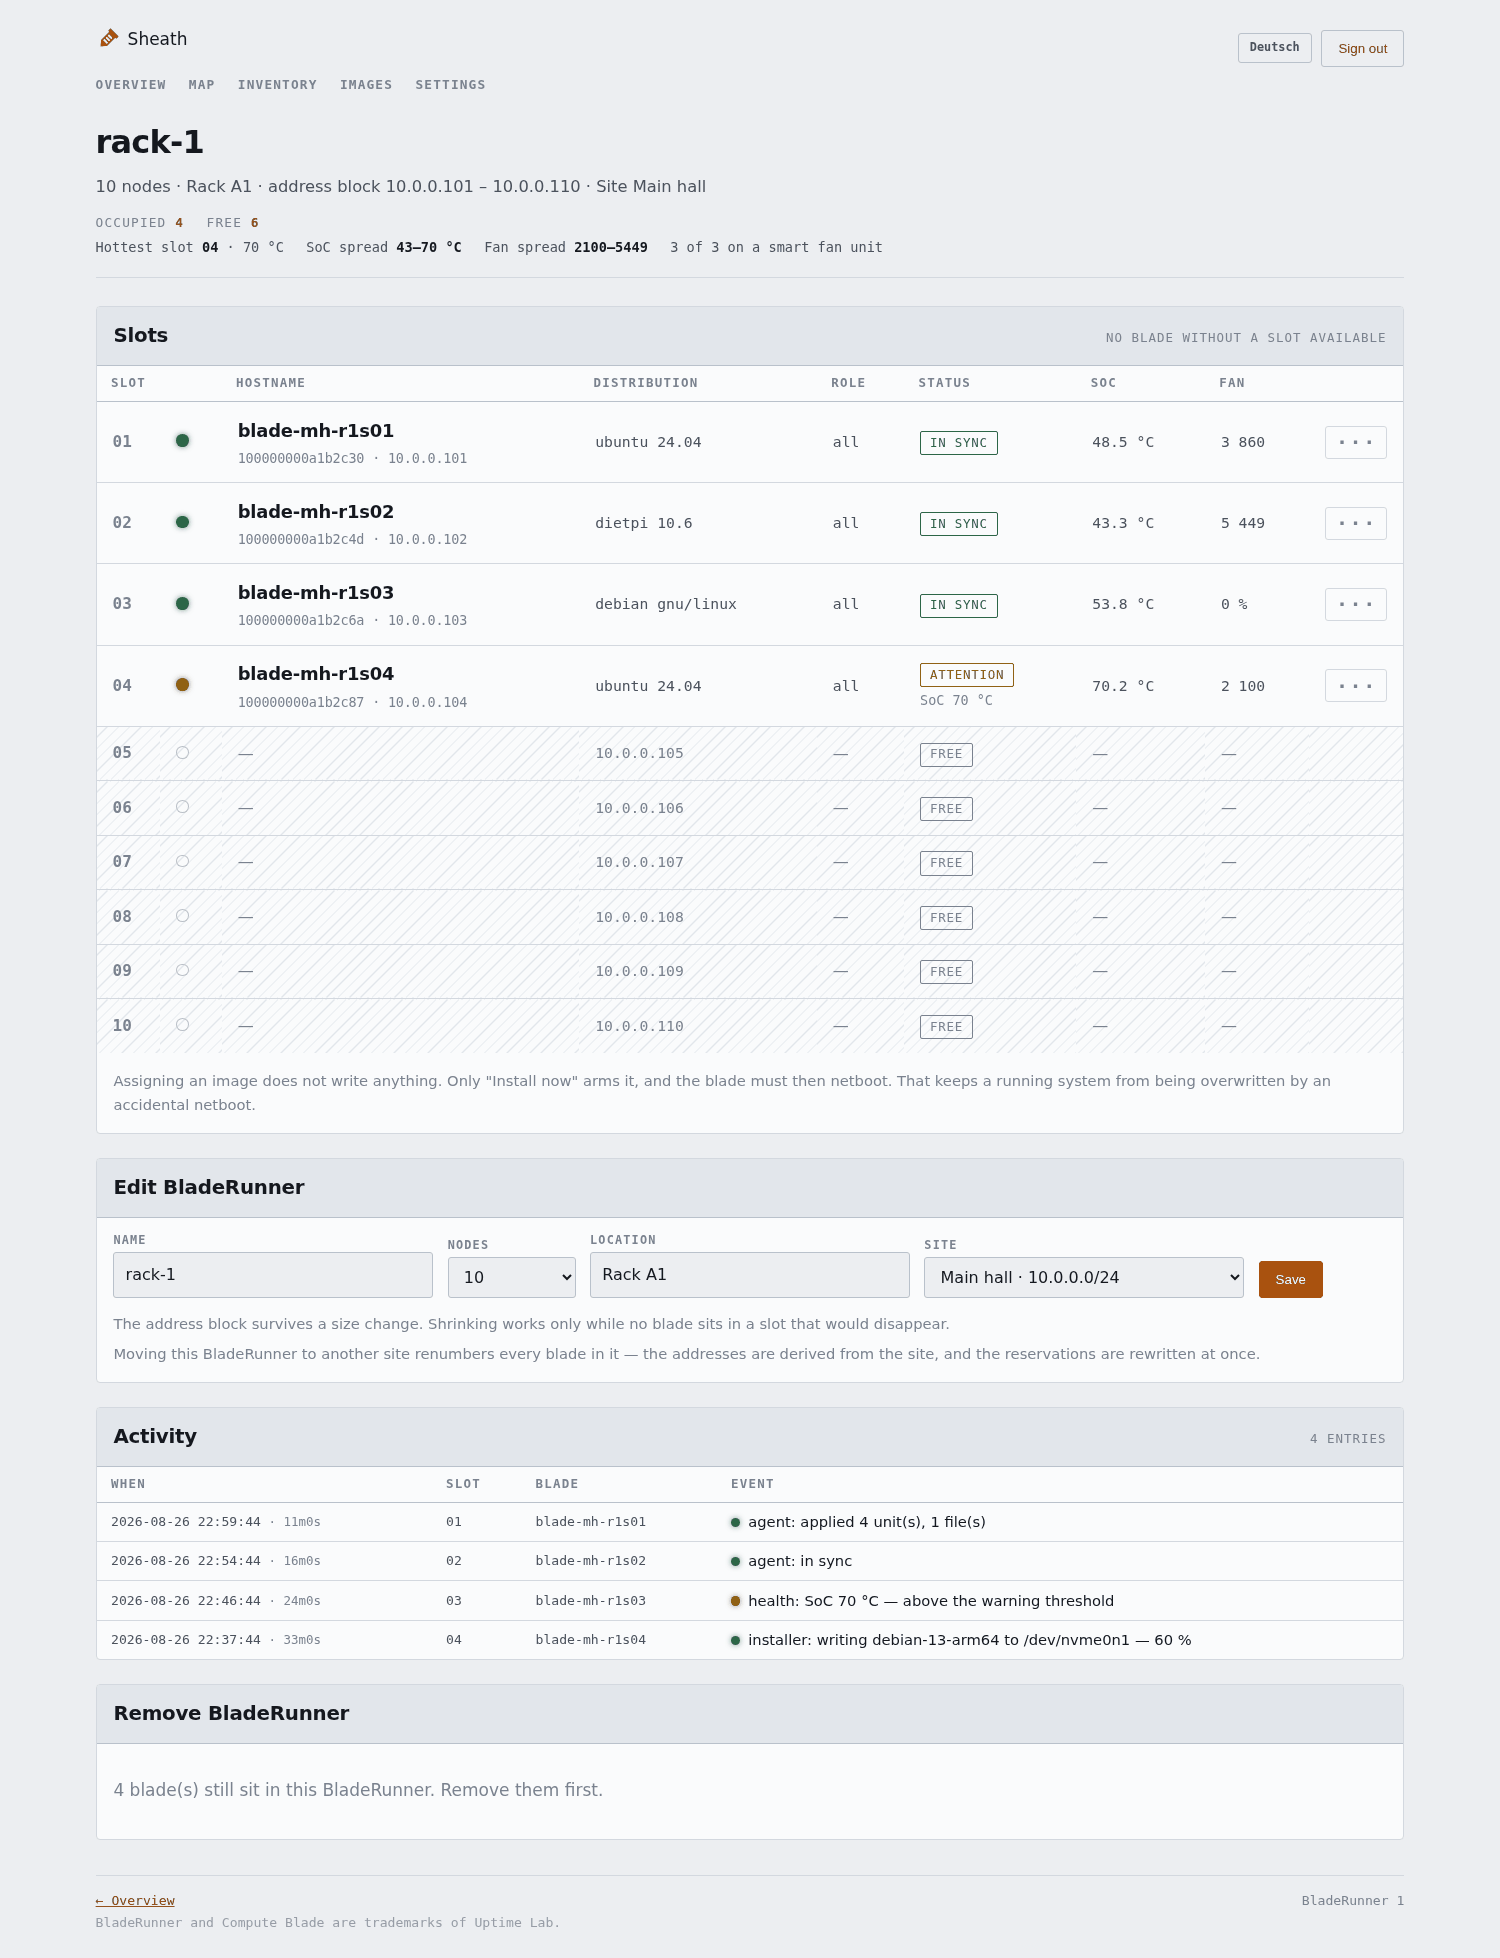
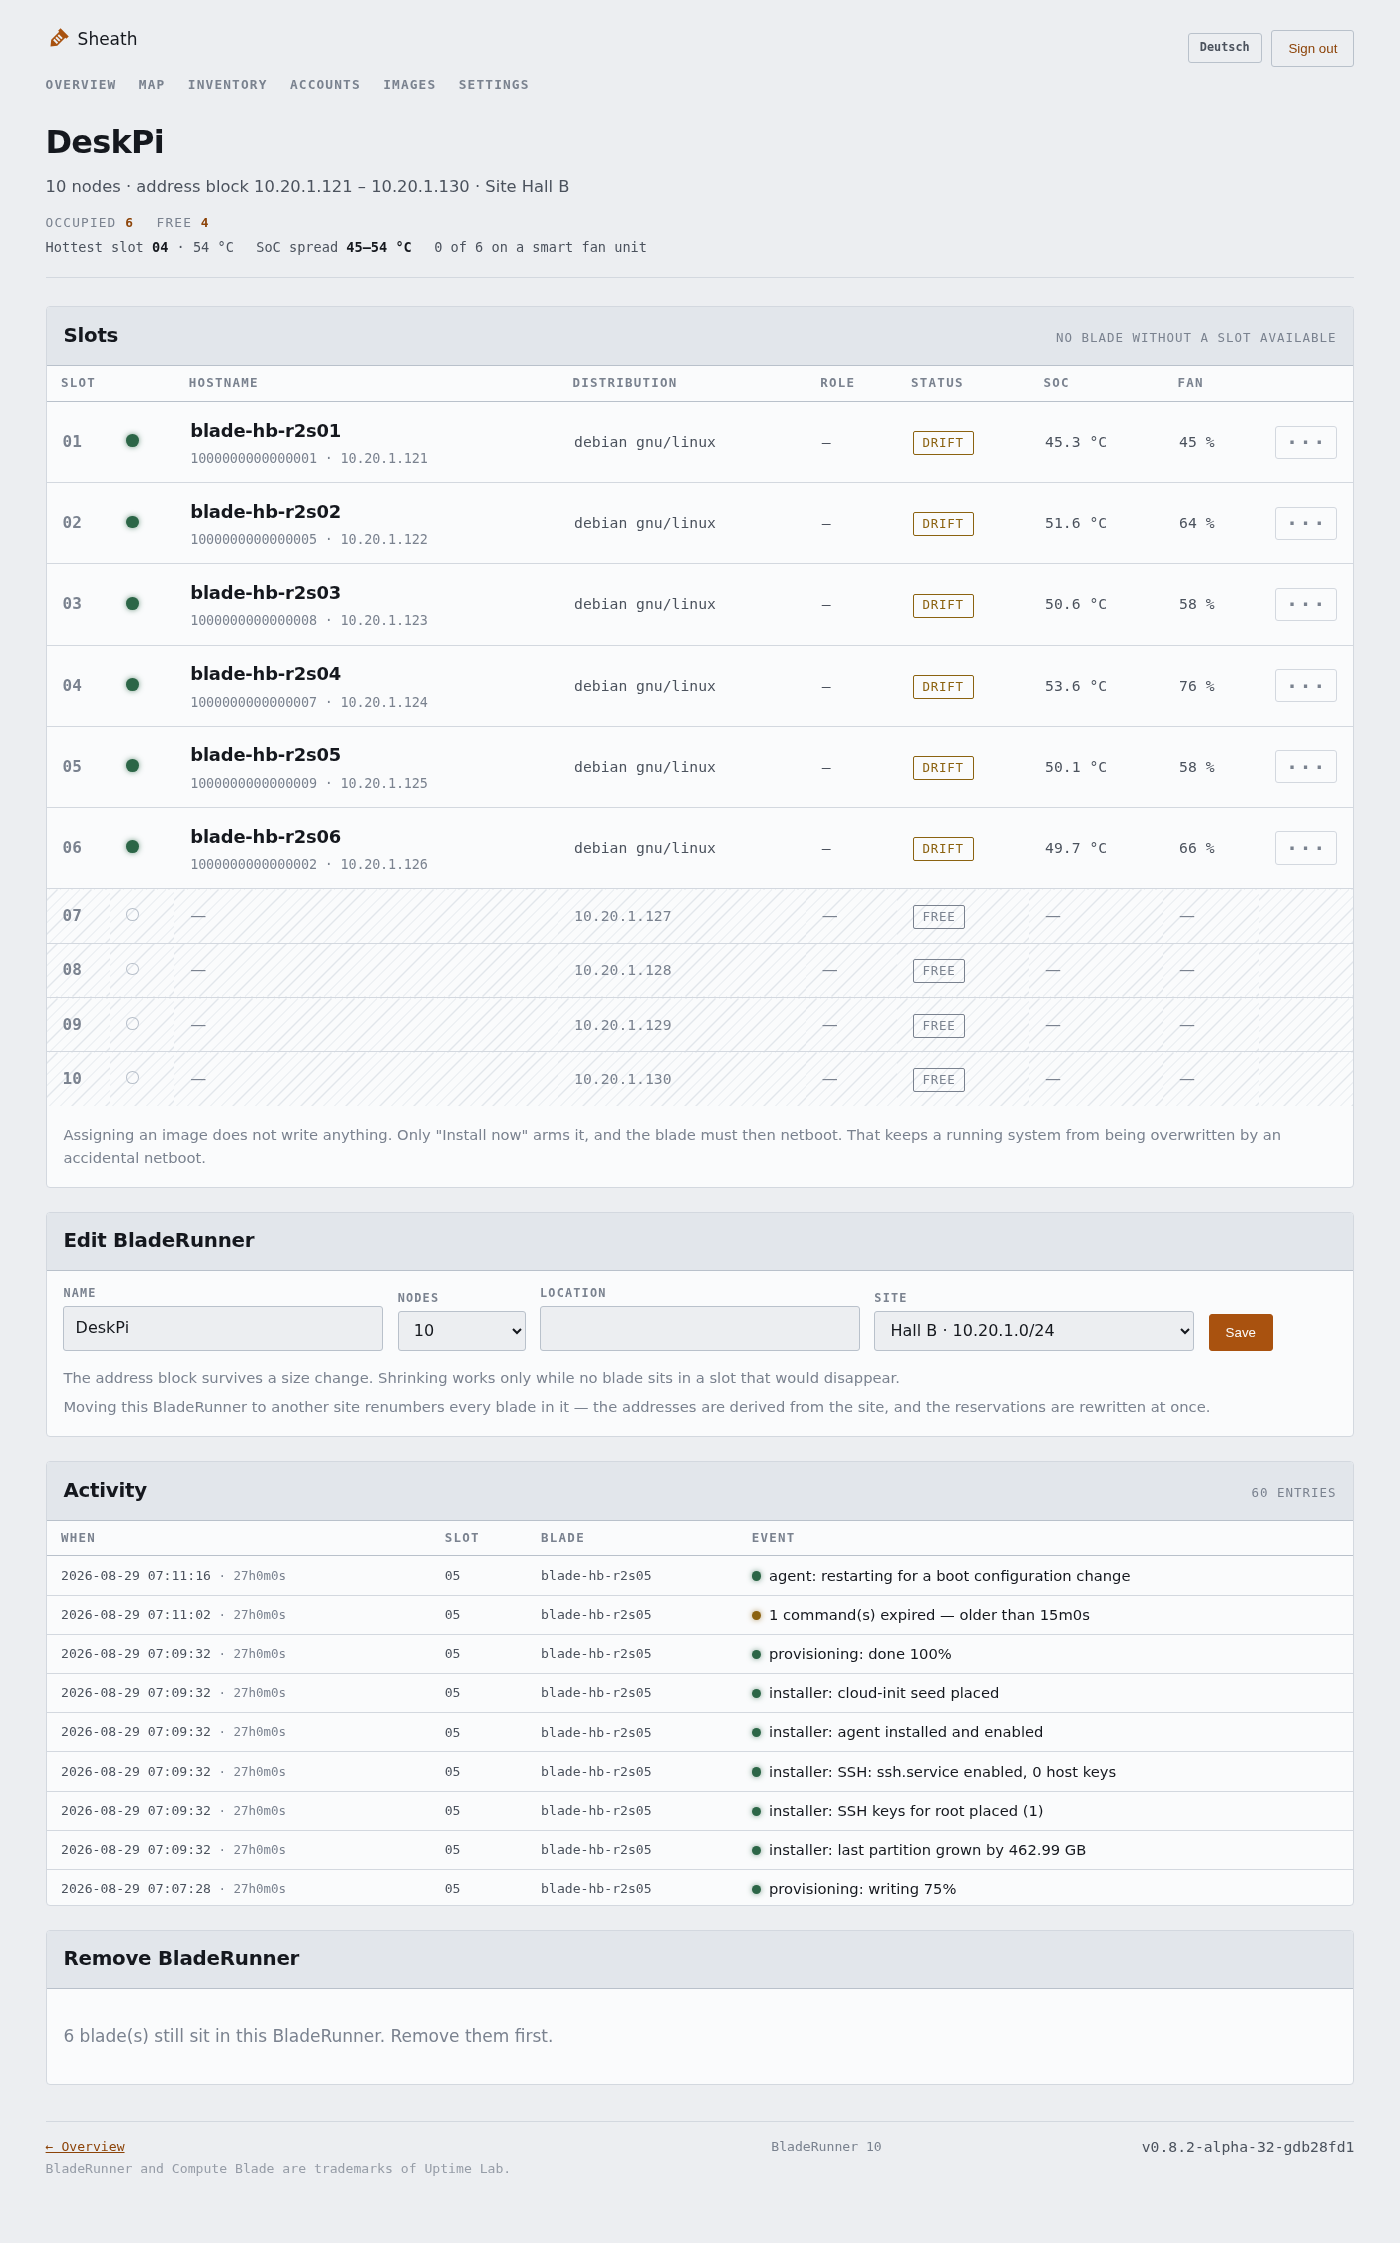
Screenshots that fit on the page, and a note on what goes in front
The pictures in the README were from a version several weeks old and took the
whole width of the page. They are new, they are shown at 420 pixels, and
clicking one opens it full size — which is what a screenshot of a dense table
needs to be worth anything.

They come from a demonstration instance again: a copy of the live database with
every serial number, MAC, host name, site name and address replaced by invented
ones, served on a loopback port with a throwaway token and shot with headless
Chromium. This repository is public and the rack it manages is not, and a
screenshot is the easiest way to forget that.

One is new: the accounts page, since there are accounts now. The inventory
paragraph says what that page actually carries these days — an eMMC and a card
told apart by name and size, the boot order out of the EEPROM, and whether
anybody could get a shell on the blade.

And a paragraph on running the interface behind a reverse proxy: check
/healthz rather than the port, and let the proxy carry the interface only,
because the image traffic goes straight to the centre by design.

Claude-Session: https://claude.ai/code/session_01MzCFyJvWhWNJbWLLt9Av2o

diff --git a/server/ui.go b/server/ui.go
@@ -3376,18 +3376,19 @@ var usersTmpl = template.Must(template.New("users").Funcs(tmplFuncs).Parse(headH
   <div class="body">
     <form method="post" action="/users">
       <div class="setgrid">
-        <label for="name">{{t .L "usr.name"}}</label>
-        <input id="name" name="name" required minlength="2" maxlength="32" pattern="[A-Za-z0-9._-]+">
-        <label for="password">{{t .L "usr.password"}}</label>
-        <input id="password" type="password" name="password" required minlength="10"
-               autocomplete="new-password">
-        <label for="role">{{t .L "usr.role"}}</label>
-        <select id="role" name="role">
-          <option value="operator">{{t .L "role.operator"}}</option>
-          <option value="admin">{{t .L "role.admin"}}</option>
-        </select>
+        <div><label for="name">{{t .L "usr.name"}}</label>
+          <input id="name" name="name" required minlength="2" maxlength="32"
+                 pattern="[A-Za-z0-9._-]+" autocomplete="username" spellcheck="false"></div>
+        <div><label for="password">{{t .L "usr.password"}}</label>
+          <input id="password" type="password" name="password" required minlength="10"
+                 autocomplete="new-password"></div>
+        <div><label for="role">{{t .L "usr.role"}}</label>
+          <select id="role" name="role">
+            <option value="operator">{{t .L "role.operator"}}</option>
+            <option value="admin">{{t .L "role.admin"}}</option>
+          </select></div>
       </div>
-      <div class="actions"><button type="submit">{{t .L "usr.create"}}</button></div>
+      <div style="margin-top:1.2rem"><button type="submit">{{t .L "usr.create"}}</button></div>
     </form>
   </div>
 </div>

diff --git a/README.md b/README.md
@@ -20,25 +20,37 @@ The overview: every site, every BladeRunner, every slot as one square — green
 where a blade is in sync, amber where something wants looking at, hatched where
 the slot is empty.
 
-![The overview, with two sites and three BladeRunners](docs/img/overview.png)
+<a href="docs/img/overview.png"><img src="docs/img/overview.png" width="420"
+ alt="The overview, with two sites and four BladeRunners"></a>
 
 One BladeRunner: what sits in each slot, which distribution it runs, how warm it
 is, what its fan is doing, and underneath it what the blades in this enclosure
 have been up to.
 
-![A BladeRunner with four blades and its activity log](docs/img/bladerunner.png)
+<a href="docs/img/bladerunner.png"><img src="docs/img/bladerunner.png" width="420"
+ alt="A BladeRunner with six blades and its activity log"></a>
 
 The inventory: what is screwed into the racks across every site. The module and
-its revision, the memory, the eMMC or the absence of one, the NVMe, the
-bootloader and how each blade came up this time. It is read from the revision
+its revision, the memory, an eMMC or a card told apart by name and size, the
+NVMe, the bootloader, the boot order read out of the EEPROM, how each blade came
+up this time, and whether anybody could get a shell on it. It is read from the revision
 code the firmware leaves in the OTP and from the device tree — and the mini OS
 reads it too, so a blade waiting for someone to choose an image already says
 what it is.
 
-![The inventory across two sites](docs/img/inventory.png)
+<a href="docs/img/inventory.png"><img src="docs/img/inventory.png" width="420"
+ alt="The inventory across two sites"></a>
 
-The screenshots come from a demonstration instance with invented blades — the
-addresses and serial numbers in them belong to nothing.
+Accounts and two roles: an operator installs blades, reinstalls them, calls an
+installation off and takes one out of service. An admin does that and
+everything that decides what the fleet is.
+
+<a href="docs/img/accounts.png"><img src="docs/img/accounts.png" width="420"
+ alt="The accounts page with an admin and an operator"></a>
+
+The pictures are shown small; click one for the full view. They come from a
+demonstration instance with invented blades — the addresses, serial numbers and
+names in them belong to nothing.
 
 ## What it does
 
@@ -50,9 +62,19 @@ addresses and serial numbers in them belong to nothing.
 | **Monitor** | Temperatures, fan, throttling, disk usage — seen from inside and outside, and said out loud by mail when a blade stays unwell |
 | **Account** | What is in the racks: module and revision, memory, storage, firmware — read by the mini OS before an image is even chosen |
 | **Reinstall** | Assign a different image, request installation, restart the blade |
+| **Who** | Accounts with two roles: an operator works at the rack, an admin decides what the fleet is — and the log says which of them did it |
 
 Several distributions run side by side: the distribution is an attribute of the
-blade, not a build process. Ubuntu, Debian and DietPi share the same flow.
+blade, not a build process. Ubuntu, Debian, DietPi and Raspberry Pi OS share the
+same flow.
+
+One caveat worth knowing before choosing: the bootloader reads a GPT from an
+NVMe and not from an eMMC or a card. An image that carries one — Debian's own
+raspi image does — writes onto a card perfectly well and then boots from
+nowhere. Sheath reads the partition table of every image it mirrors and refuses
+that pairing before the hour of writing rather than after it. Raspberry Pi OS
+Lite is Debian Trixie with a plain MBR, so it boots from every device a blade
+has.
 
 ## Layout
 

diff --git a/docs/INSTALLATION.md b/docs/INSTALLATION.md
@@ -904,6 +904,16 @@ outright — that is the only case where forgetting does lasting damage, and
 someone in that position meant either "put it away" (reset) or "it is really
 leaving" (shut it down first).
 
+**The interface behind a reverse proxy.** Sheath serves plain HTTP and expects
+something in front of it where it is reachable from outside. Two things matter
+there. The health check should be `GET /healthz` — it answers `200 ok` without
+a session, and a TCP connect only proves that a process is listening, which a
+server with a broken database also does. And the proxy carries the **interface
+only**: sites and blades fetch images, the netboot payload and the agent
+binaries straight from the centre's own address, hundreds of megabytes at a
+time, and `--base-url` names that address deliberately. A redirect that pulls
+that traffic through the proxy would be a slow way to break installations.
+
 **Accounts, and two roles.** Sheath began with one credential: whoever had the
 admin token had the fleet, and nothing recorded who had used it. That is
 defensible for a page on the LAN and wrong as soon as there is a second pair of
